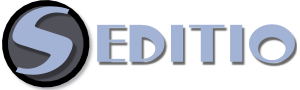
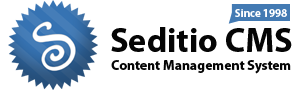
Improvement by install script
Update logo & insert css styles

diff --git a/system/install/install.main.php b/system/install/install.main.php
@@ -61,7 +61,7 @@ $disp_header .= '<style type="text/css">';
 $disp_header .= '<!-- ';
 $disp_header .= 'body 		{ background-color: #FFFFFF; padding:24px; text-align:center; margin:0; ';
 $disp_header .= 'font-family: Segoe UI, Verdana, Arial, Helvetica; color: #101010; font-size: 13px; }';
-$disp_header .= '#container	{ width:800px; margin:0 auto 0 auto; padding:8px 20px 12px 20px; text-align:left; background-color: #F0F0F0; } ';
+$disp_header .= '#conte	{ width:800px; margin:20px auto 0 auto; padding:8px 20px 12px 20px; text-align:left; background-color: #F0F0F0; border-radius:20px;} ';
 $disp_header .= 'a 			{ text-decoration: none; color: #306797; }';
 $disp_header .= 'a:hover 	{ text-decoration: none; color: #000000; background-color: #AFCCE5; }';
 $disp_header .= '.no 	 	{ color: #c31d1d; }';
@@ -72,10 +72,11 @@ $disp_header .= '.coltop		{ text-align:center; font-size:95%;  background-color:
 $disp_header .= '.desc 		{ font-size:90%; padding:3px; color:#646464; }';
 $disp_header .= '-->';
 $disp_header .= '</style>';
+$disp_header .= '<link rel="stylesheet" type="text/css" href="skins/simple/simple.css" />';
 $disp_header .= '<title>'.$L['install_title'].'</title>';
 $disp_header .= '</head>';
 $disp_header .= '<body>';
-$disp_header .= '<div id="container">';
+$disp_header .= '<div id="conte">';
 $disp_footer = '</div><br /></div><br /></body><br /></html>';
 
 // -----------------------------------------------
@@ -236,7 +237,7 @@ switch($m)
 		$res .= "<span class=\"yes\">".$L['install_done']."</span>";
 
     $res .= "<form name=\"install\" action=\"install.php?m=plugins\" method=\"post\">";
-    $res .= "<input type=\"submit\" style=\"margin-top:32px;\" value=\"".$L['install_contine_toplugins']."\">";
+    $res .= "<input type=\"submit\" class=\"submit btn\" style=\"margin-top:32px;\" value=\"".$L['install_contine_toplugins']."\">";
     $res .= "</form>";
 
 		}
@@ -253,7 +254,7 @@ switch($m)
   
   $step = 4;
   
-  $res .= "<h3>".$L['install_plugins']." :<h3>";
+  $res .= "<h3>".$L['install_plugins']." :</h3>";
   $res .= $L['install_optional_plugins'];
   $res .= "<form name=\"install\" action=\"install.php?m=plinst\" method=\"post\">";
   $res .= "<table class=\"cells striped\">";
@@ -295,7 +296,7 @@ switch($m)
     }
   
 	$res .= "</table>";  
-	$res .= "<input type=\"submit\" style=\"margin-top:32px;\" value=\"".$L['install_now']."\">";
+	$res .= "<input type=\"submit\" class=\"submit btn\" style=\"margin-top:32px;\" value=\"".$L['install_now']."\">";
 	$res .= "</form>";
 
 	break;
@@ -354,7 +355,7 @@ switch($m)
   sed_stat_create('installed', 1);
   
   $res .= "<form name=\"install\" action=\"install.php?m=home\" method=\"post\">";
-	$res .= "<input type=\"submit\" style=\"margin-top:32px;\" value=\"".$L['install_contine_homepage']."\">";
+	$res .= "<input type=\"submit\" class=\"submit btn\" style=\"margin-top:32px;\" value=\"".$L['install_contine_homepage']."\">";
 	$res .= "</form>";
   
 	break;
@@ -391,7 +392,7 @@ switch($m)
 
 	$res .= "<h3>".$L['install_database_setup']."</h3>";
 
-	$res .= "<table>";
+	$res .= "<table class=\"cells\">";
 	$res .= "<tr><td style=\"width:172px;\">".$L['install_database_hosturl']."</td><td colspan=\"2\">";
 	$res .= "<input type=\"text\" name=\"mysqlhost\" size=\"32\" value=\"localhost\" maxlength=\"128\" />";
 	$res .= " (".$L['install_always_localhost'].")</td></tr>";
@@ -420,7 +421,7 @@ switch($m)
 	
 	$res .= "<h3>".$L['install_input_mode']."</h3>";
 
-	$res .= "<table style=\"width:100%;\">";	
+	$res .= "<table style=\"width:100%;\" class=\"cells\">";	
 
   $res .= "<tr><td><td style=\"vertical-align:top;\"><input type=\"radio\" name=\"textmode\" value=\"html\" checked=\"checked\">";
   $res .= "</td><td style=\"width:95%;\">".$L['install_html_mode'];
@@ -434,7 +435,7 @@ switch($m)
  
 	$res .= "<h3>".$L['install_skinandlang']."</h3>";
 	
-	$res .= "<table style=\"width:100%;\">";	
+	$res .= "<table style=\"width:100%;\" class=\"cells\">";	
 
 	$res .= "<tr><td style=\"width:172px; vertical-align:top;\">".$L['install_default_skin']."</td><td  style=\"vertical-align:top;\">";
 	$res .= sed_radiobox_skin($cfg['default_skin'], 'defaultskin')."</td></tr>";
@@ -445,7 +446,7 @@ switch($m)
 
 	$res .= "<h3>".$L['install_admin_account']."</h3>";	
 
-	$res .= "<table style=\"width:100%;\">";	
+	$res .= "<table style=\"width:100%;\" class=\"cells\">";	
 	$res .= "<tr><td style=\"width:172px;\">".$L['install_account_name']."</td>";
 	$res .= "<td><input type=\"text\" name=\"admin_name\" size=\"32\" value=\"\" maxlength=\"128\" /> (".$L['install_ownaccount_name'].")</td></tr>";
 	$res .= "<tr><td style=\"width:172px;\">".$L['install_password']."</td>";
@@ -454,7 +455,7 @@ switch($m)
 	$res .= "<td><input type=\"text\" name=\"admin_email\" size=\"32\" value=\"\" maxlength=\"128\" /> (".$L['install_doublecheck'].")</td></tr>";
 	$res .= "<tr><td style=\"width:172px;\">".$L['install_country']."</td>";
 	$res .= "<td>".sed_selectbox_countries($cfg['defaultcountry'], 'admin_country')."</td></tr>";
-	$res .= "<tr><td colspan=\"2\" style=\"padding-top:32px; text-align:center;\"><input type=\"submit\" value=\"".$L['install_validate']."\"></td></tr>";
+	$res .= "<tr><td colspan=\"2\" style=\"padding-top:32px; text-align:center;\"><input type=\"submit\" class=\"submit btn\" value=\"".$L['install_validate']."\"></td></tr>";
 	$res .= "</table>";
 	
 	$res .= "</form>";
@@ -474,7 +475,7 @@ switch($m)
 	$res .= "<table style=\"width:100%; margin-top:8px;\">";
 	$res .= "<tr><td style=\"width:50%px; vertical-align:top;\">";
 
-	$res .= "<table style=\"width:100%;\">";
+	$res .= "<table style=\"width:100%;\" class=\"cells\">";
 	foreach ($rwfolders as $i => $j)
 		{
 		$res .= "<tr><td style=\"width:172px;\">".$L['install_folder']." <strong>$j</strong> :</td><td style=\"padding-right:16px;\">";
@@ -488,7 +489,7 @@ switch($m)
 
 	$res .= "</td><td style=\"width:50%px; vertical-align:top;\">";
 
-	$res .= "<table style=\"width:100%;\">";
+	$res .= "<table style=\"width:100%;\" class=\"cells\">";
 	$res .= "<tr><td style=\"width:150px;\">".$L['install_file']." <strong>datas/config.php</strong> :</td><td>";
 
 	if (file_exists($cfg['config_file']))
@@ -520,7 +521,7 @@ switch($m)
 	$res .= "</table>";
 
 	$res .= "<form name=\"install\" action=\"install.php?m=param\" method=\"post\">";
-	$res .= "<input type=\"submit\" style=\"margin-top:32px;\" value=\"".$L['install_nextstep']."\">";
+	$res .= "<input type=\"submit\" class=\"submit btn\" style=\"margin-top:32px;\" value=\"".$L['install_nextstep']."\">";
 	$res .= "</form>";
 
 	break;
@@ -532,7 +533,7 @@ switch($m)
   $res .= "<h3>".$L['install_language installation']."</h3>";
 	
 	$res .= "<form name=\"install\" action=\"install.php?m=onestep\" method=\"post\">";
-  $res .= "<table style=\"width:100%;\">";	
+  $res .= "<table style=\"width:100%;\" class=\"cells\">";	
 
 	$res .= "<tr><td style=\"width:196px;\">".$L['install_select_language installation']."</td><td>";
 	$res .= sed_selectbox_lang_install('', 'langinstall')."</td></tr>";
@@ -540,7 +541,7 @@ switch($m)
 	$res .= "</table>";
 	
 	
-	$res .= "<input type=\"submit\" style=\"margin-top:32px;\" value=\"".$L['install_nextstep']."\">";
+	$res .= "<input type=\"submit\" class=\"submit btn\" style=\"margin-top:32px;\" value=\"".$L['install_nextstep']."\">";
 	$res .= "</form>";
   
   break;
@@ -548,7 +549,7 @@ switch($m)
   }
 
 $disp_shared = "<table style=\"width:100%; border-bottom:#CCCCCC dashed 1px;\">";
-$disp_shared .= "<tr><td style=\"width:50%;\"><img src=\"system/install/seditio.png\" alt=\"\" /></td>";
+$disp_shared .= "<tr><td style=\"width:50%; vertical-align:middle;\"><img src=\"system/install/seditio.png\" alt=\"\" /></td>";
 $disp_shared .= "<td style=\"width:50%; vertical-align:middle;\">";
 foreach ($steps as $i => $j)
 	{
